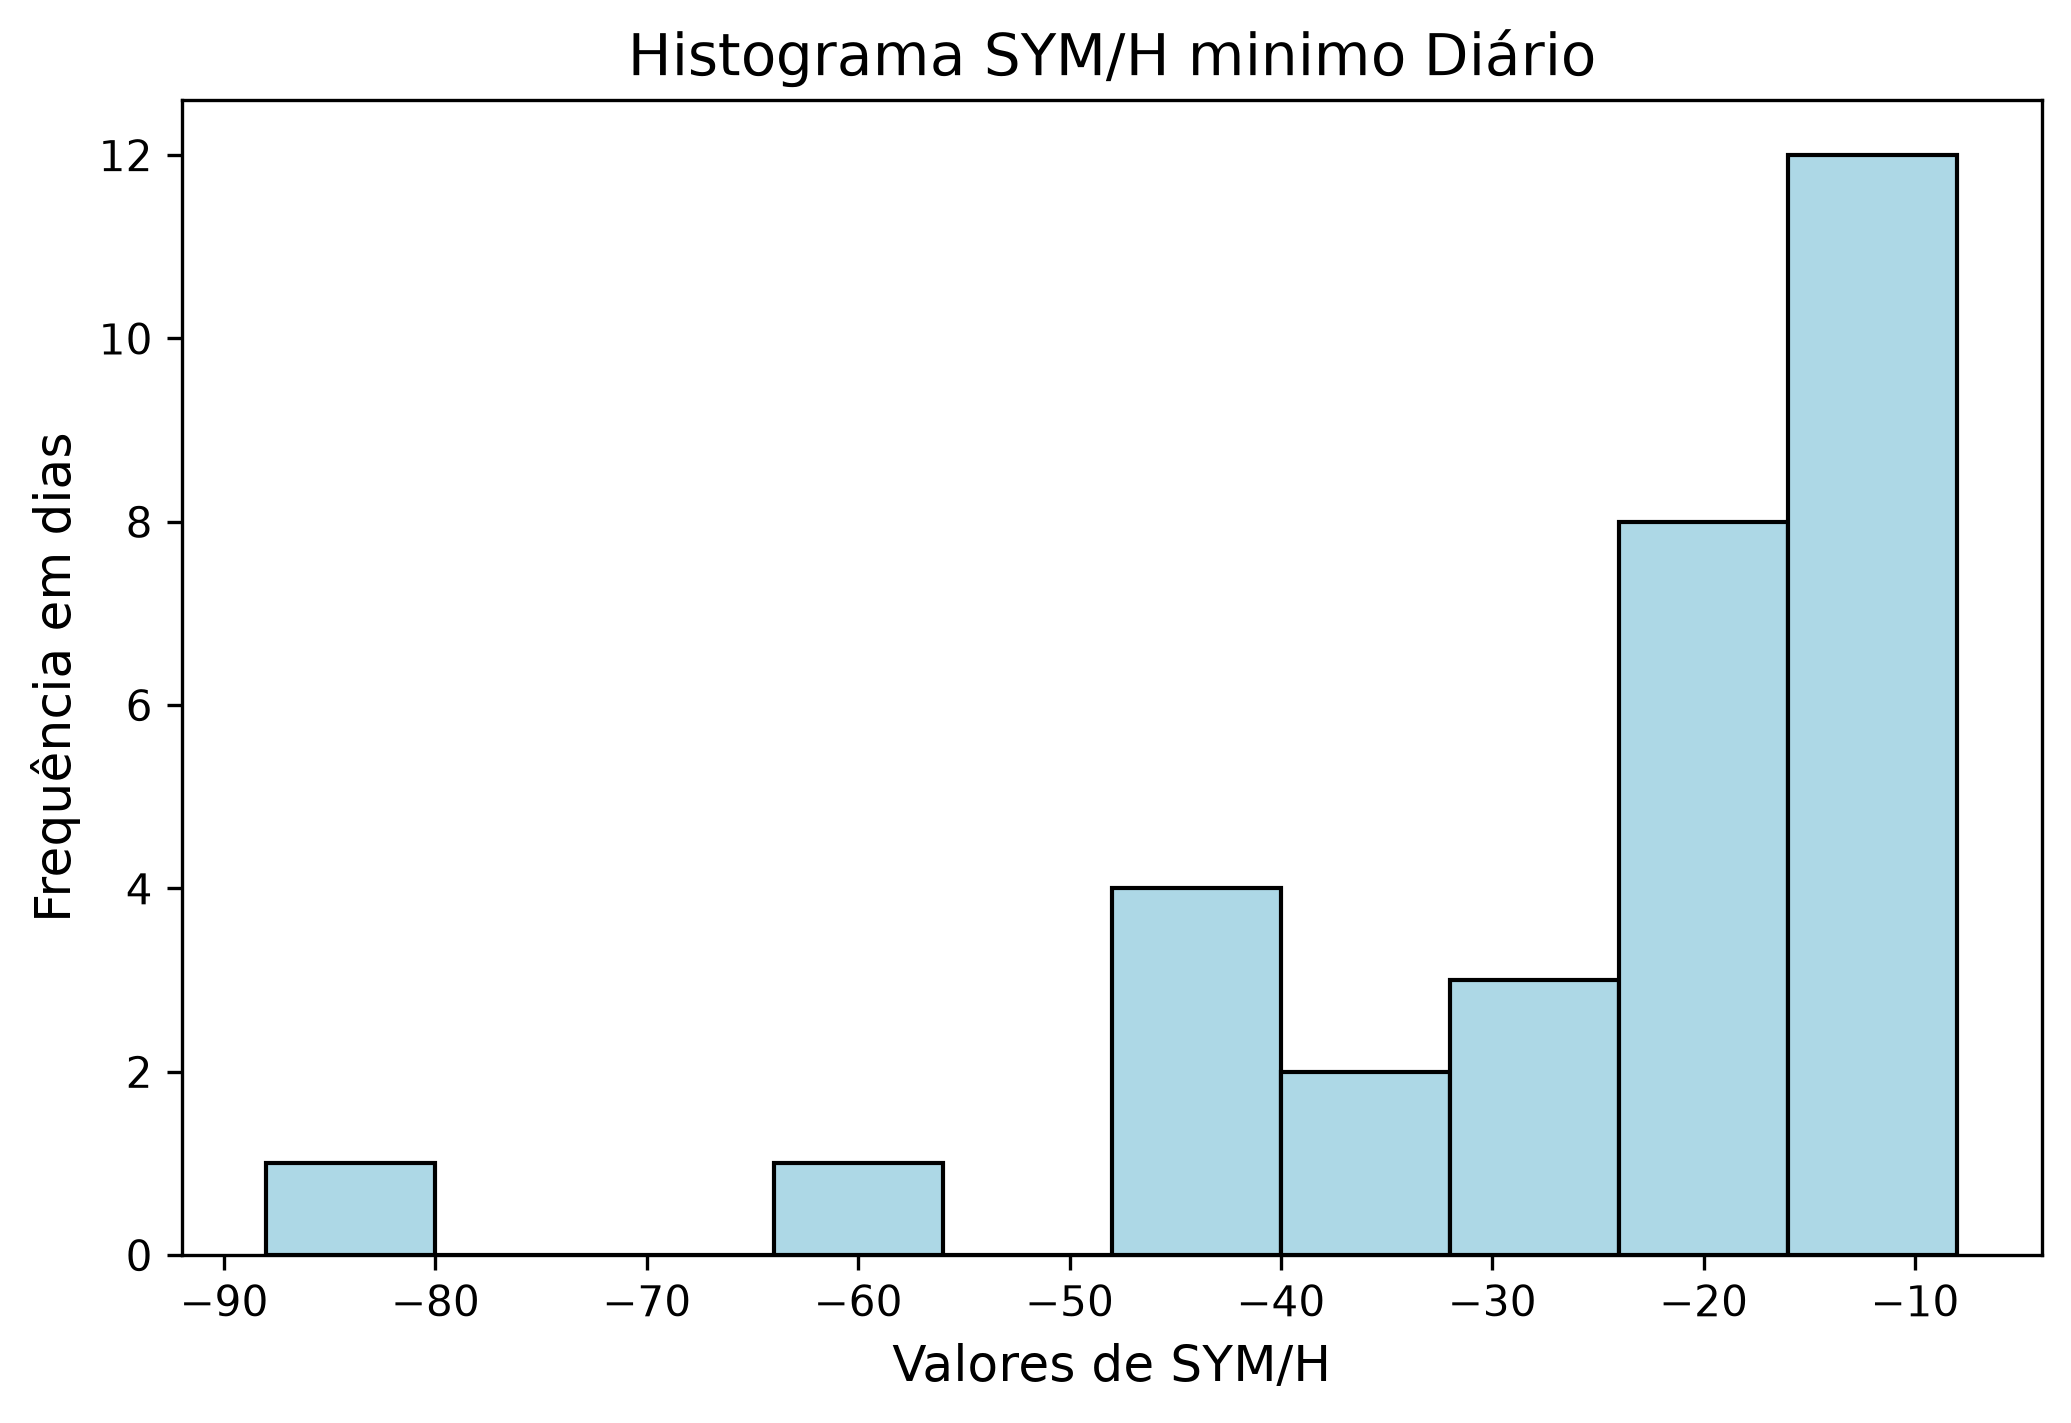
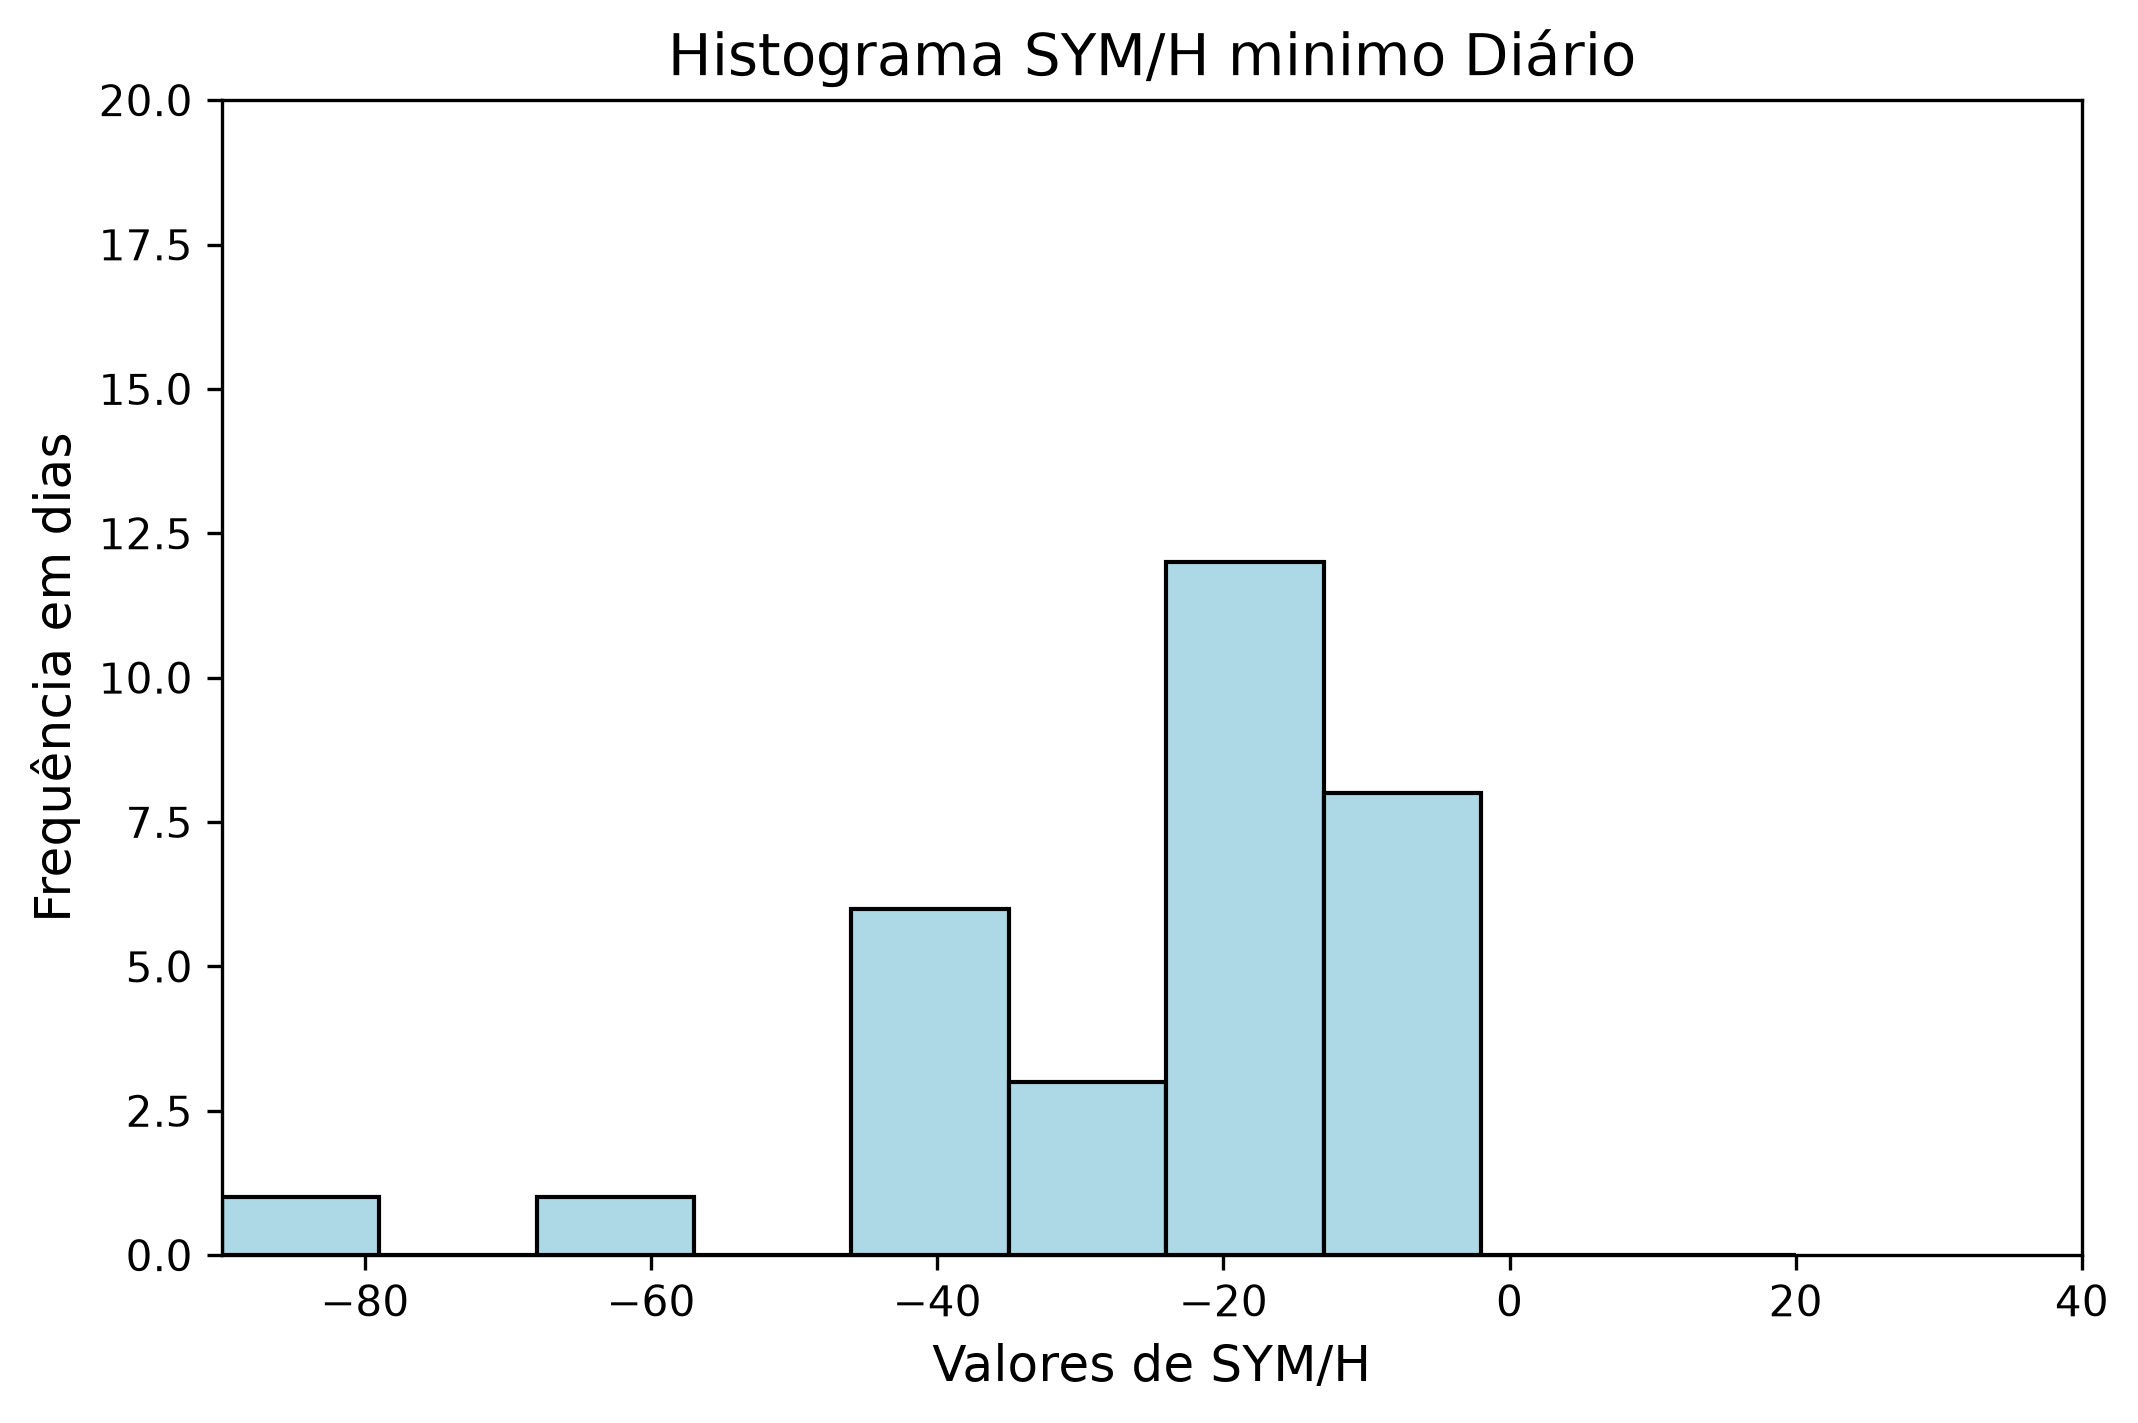
correção

diff --git a/dados.py b/dados.py
@@ -68,7 +68,9 @@ Minimo: {min_6}            Minimo parcial: {min_parcial6}
 
 #grafico parcial de SYM/H
 plt.figure(figsize=(8, 5))
-plt.hist(parcial6, bins=15, color='lightcoral', edgecolor='black')
+plt.hist(parcial6, bins=15,range=(-90, 20), color='lightcoral', edgecolor='black')
+plt.xlim(-90, 40) 
+plt.ylim(0, 2000)
 plt.title('Histograma SYM/H Parcial das 02h16 às 06h15', fontsize=14)
 plt.xlabel('Valores de SYM/H', fontsize=12)
 plt.ylabel('Frequência de Quantidade de Medições', fontsize=12)
@@ -86,7 +88,9 @@ plt.show()
 
 #grafico SYM/H medio
 plt.figure(figsize=(8, 5))
-plt.hist(tabela_diaria['Media_Col6'], bins=10, color='lightblue', edgecolor='black')
+plt.hist(tabela_diaria['Media_Col6'], bins=10, range=(-90, 20), color='lightblue', edgecolor='black')
+plt.xlim(-90, 40) 
+plt.ylim(0, 20)
 plt.title('Histograma SYM/H Médio Diário', fontsize=14)
 plt.xlabel('Valores de SYM/H', fontsize=12)
 plt.ylabel('Frequência em dias', fontsize=12)
@@ -95,7 +99,9 @@ plt.show()
 
 #grafico SYM/H Maximo
 plt.figure(figsize=(8, 5))
-plt.hist(tabela_diaria['Max_Col6'], bins=10, color='lightblue', edgecolor='black')
+plt.hist(tabela_diaria['Max_Col6'], bins=10, range=(-90, 20), color='lightblue', edgecolor='black')
+plt.xlim(-90, 40) 
+plt.ylim(0, 20)
 plt.title('Histograma SYM/H maximo Diário', fontsize=14)
 plt.xlabel('Valores de SYM/H', fontsize=12)
 plt.ylabel('Frequência em dias', fontsize=12)
@@ -104,7 +110,9 @@ plt.show()
 
 #grafico SYM/H minimo
 plt.figure(figsize=(8, 5))
-plt.hist(tabela_diaria['Min_Col6'], bins=10, color='lightblue', edgecolor='black')
+plt.hist(tabela_diaria['Min_Col6'], bins=10, range=(-90, 20), color='lightblue', edgecolor='black')
+plt.xlim(-90, 40) 
+plt.ylim(0, 20)
 plt.title('Histograma SYM/H minimo Diário', fontsize=14)
 plt.xlabel('Valores de SYM/H', fontsize=12)
 plt.ylabel('Frequência em dias', fontsize=12)
@@ -113,7 +121,9 @@ plt.show()
 
 #grafico AE medio
 plt.figure(figsize=(8, 5))
-plt.hist(tabela_diaria['Media_Col5'], bins=10, color='lightblue', edgecolor='black')
+plt.hist(tabela_diaria['Media_Col5'], bins=10, range=(0, 1600), color='lightblue', edgecolor='black')
+plt.xlim(-20, 1600) 
+plt.ylim(0, 20)
 plt.title('Histograma AE medio Diário', fontsize=14)
 plt.xlabel('Valores de AE', fontsize=12)
 plt.ylabel('Frequência em dias', fontsize=12)
